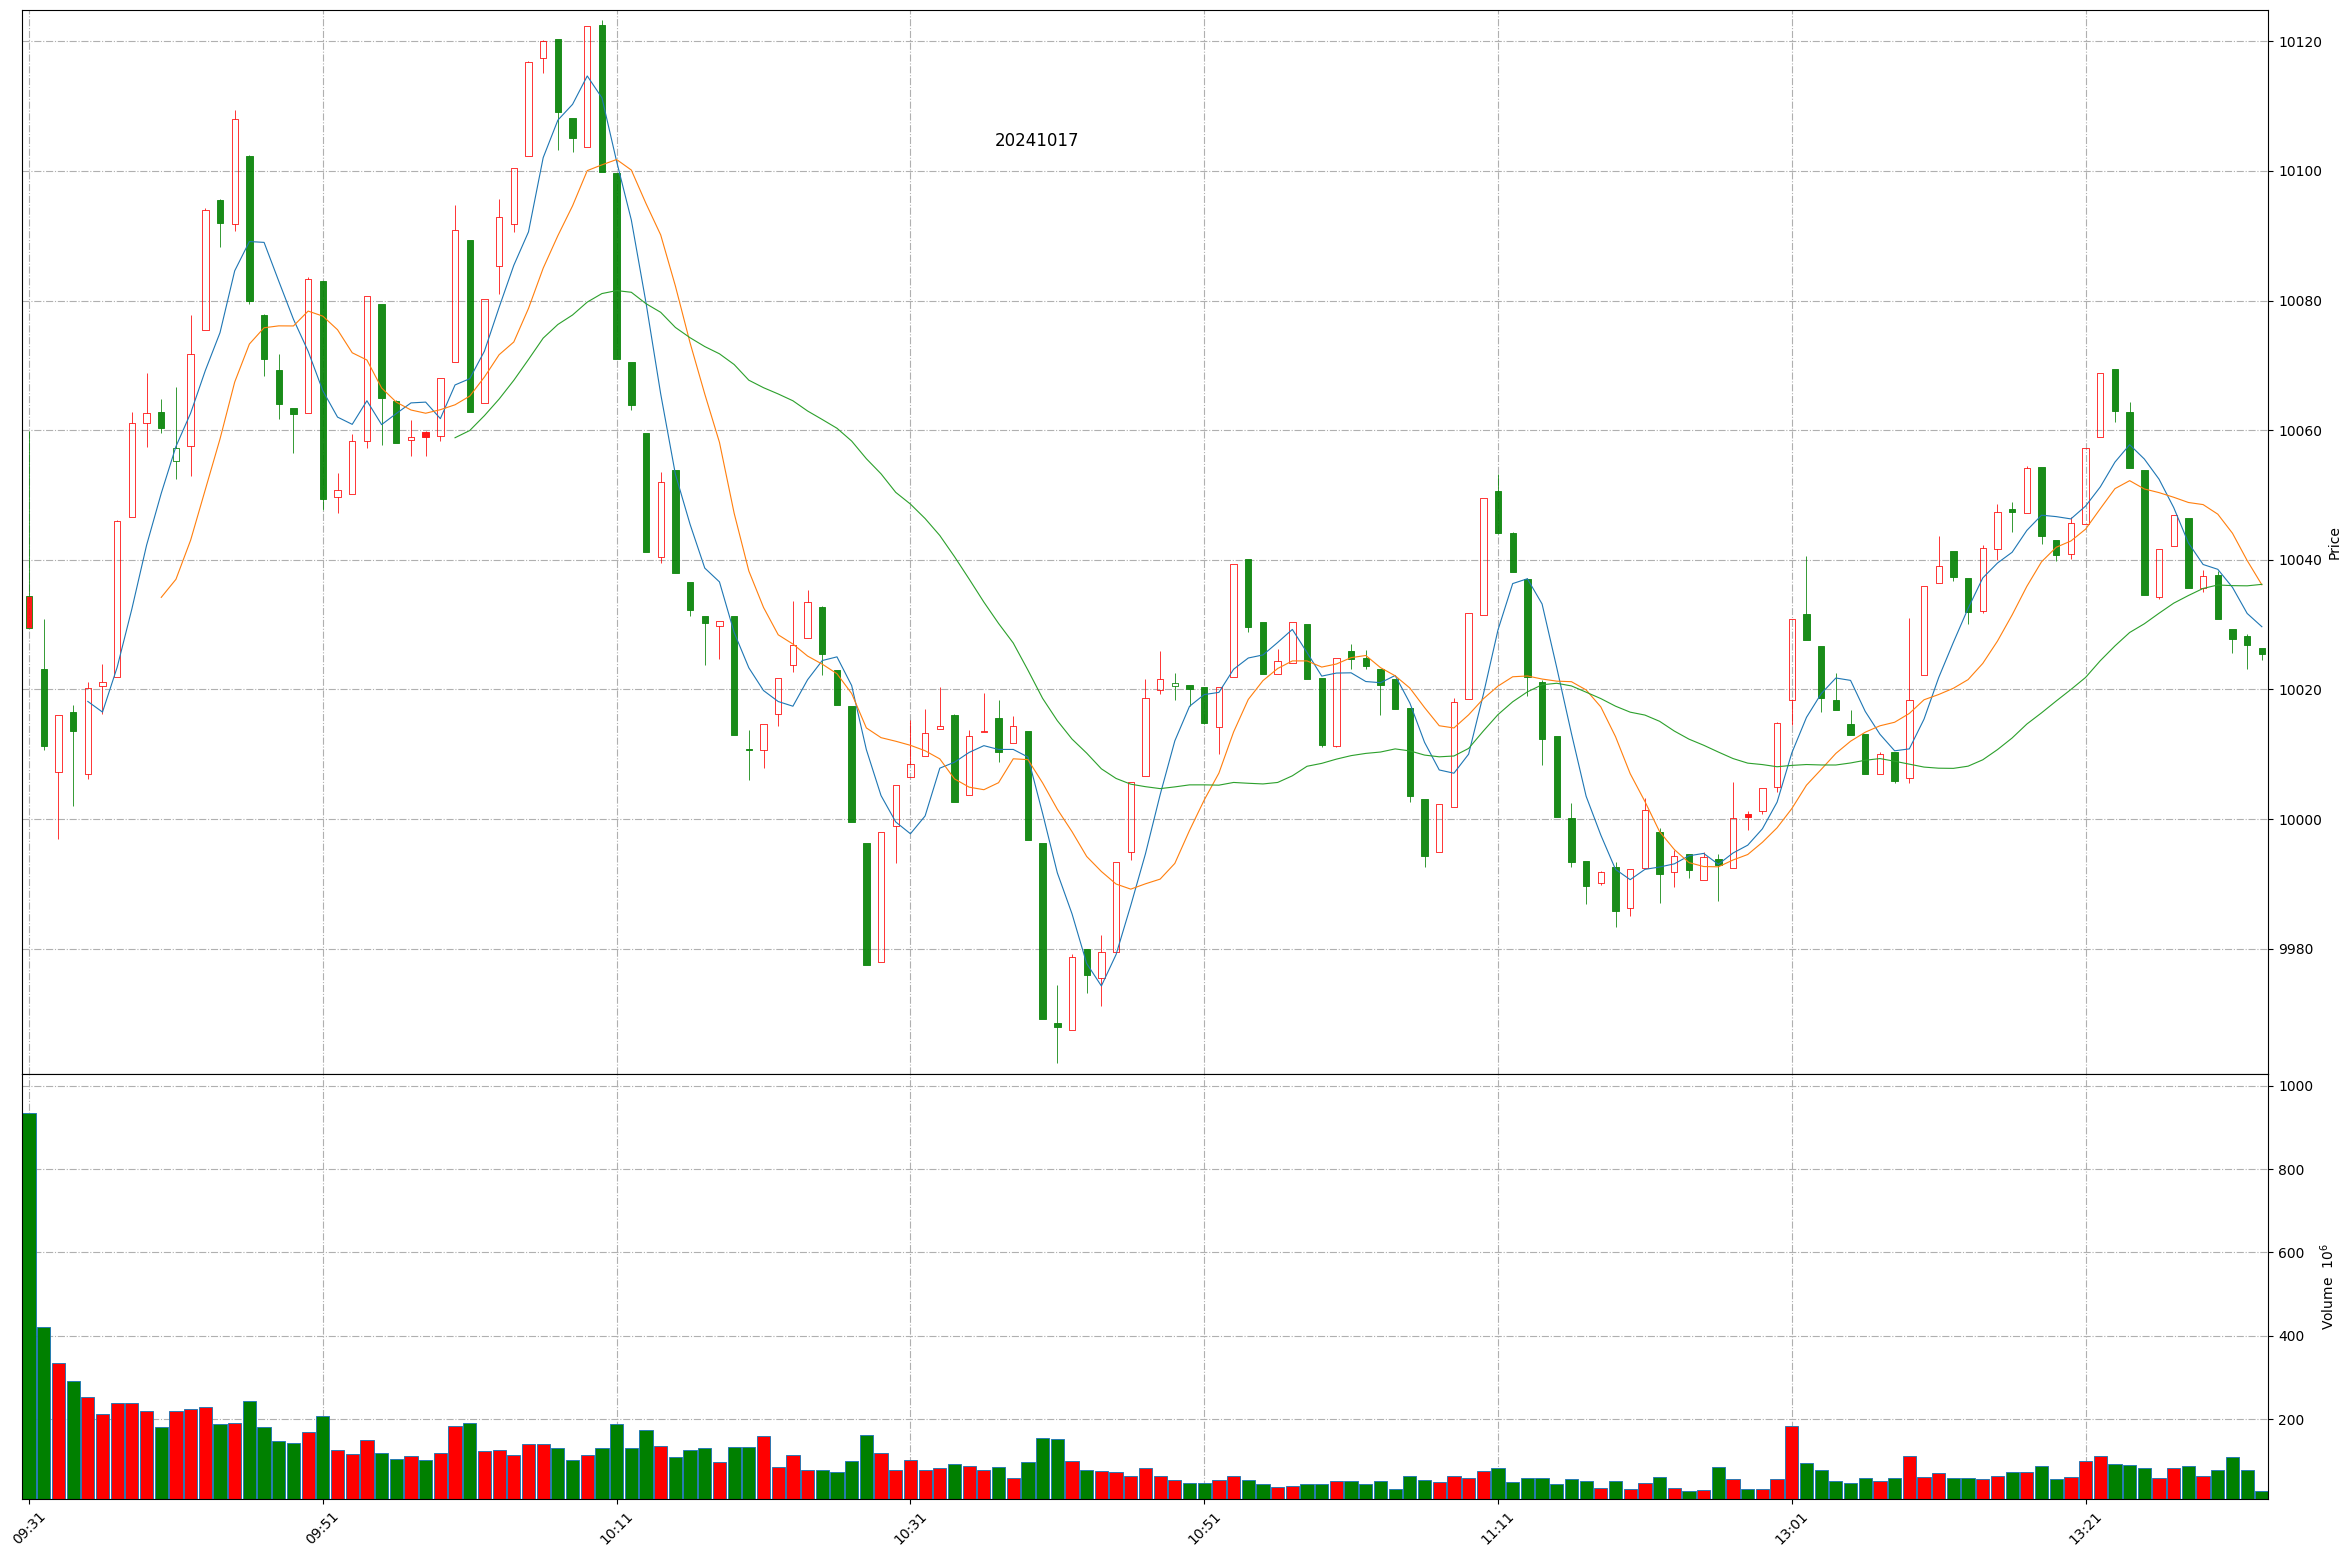
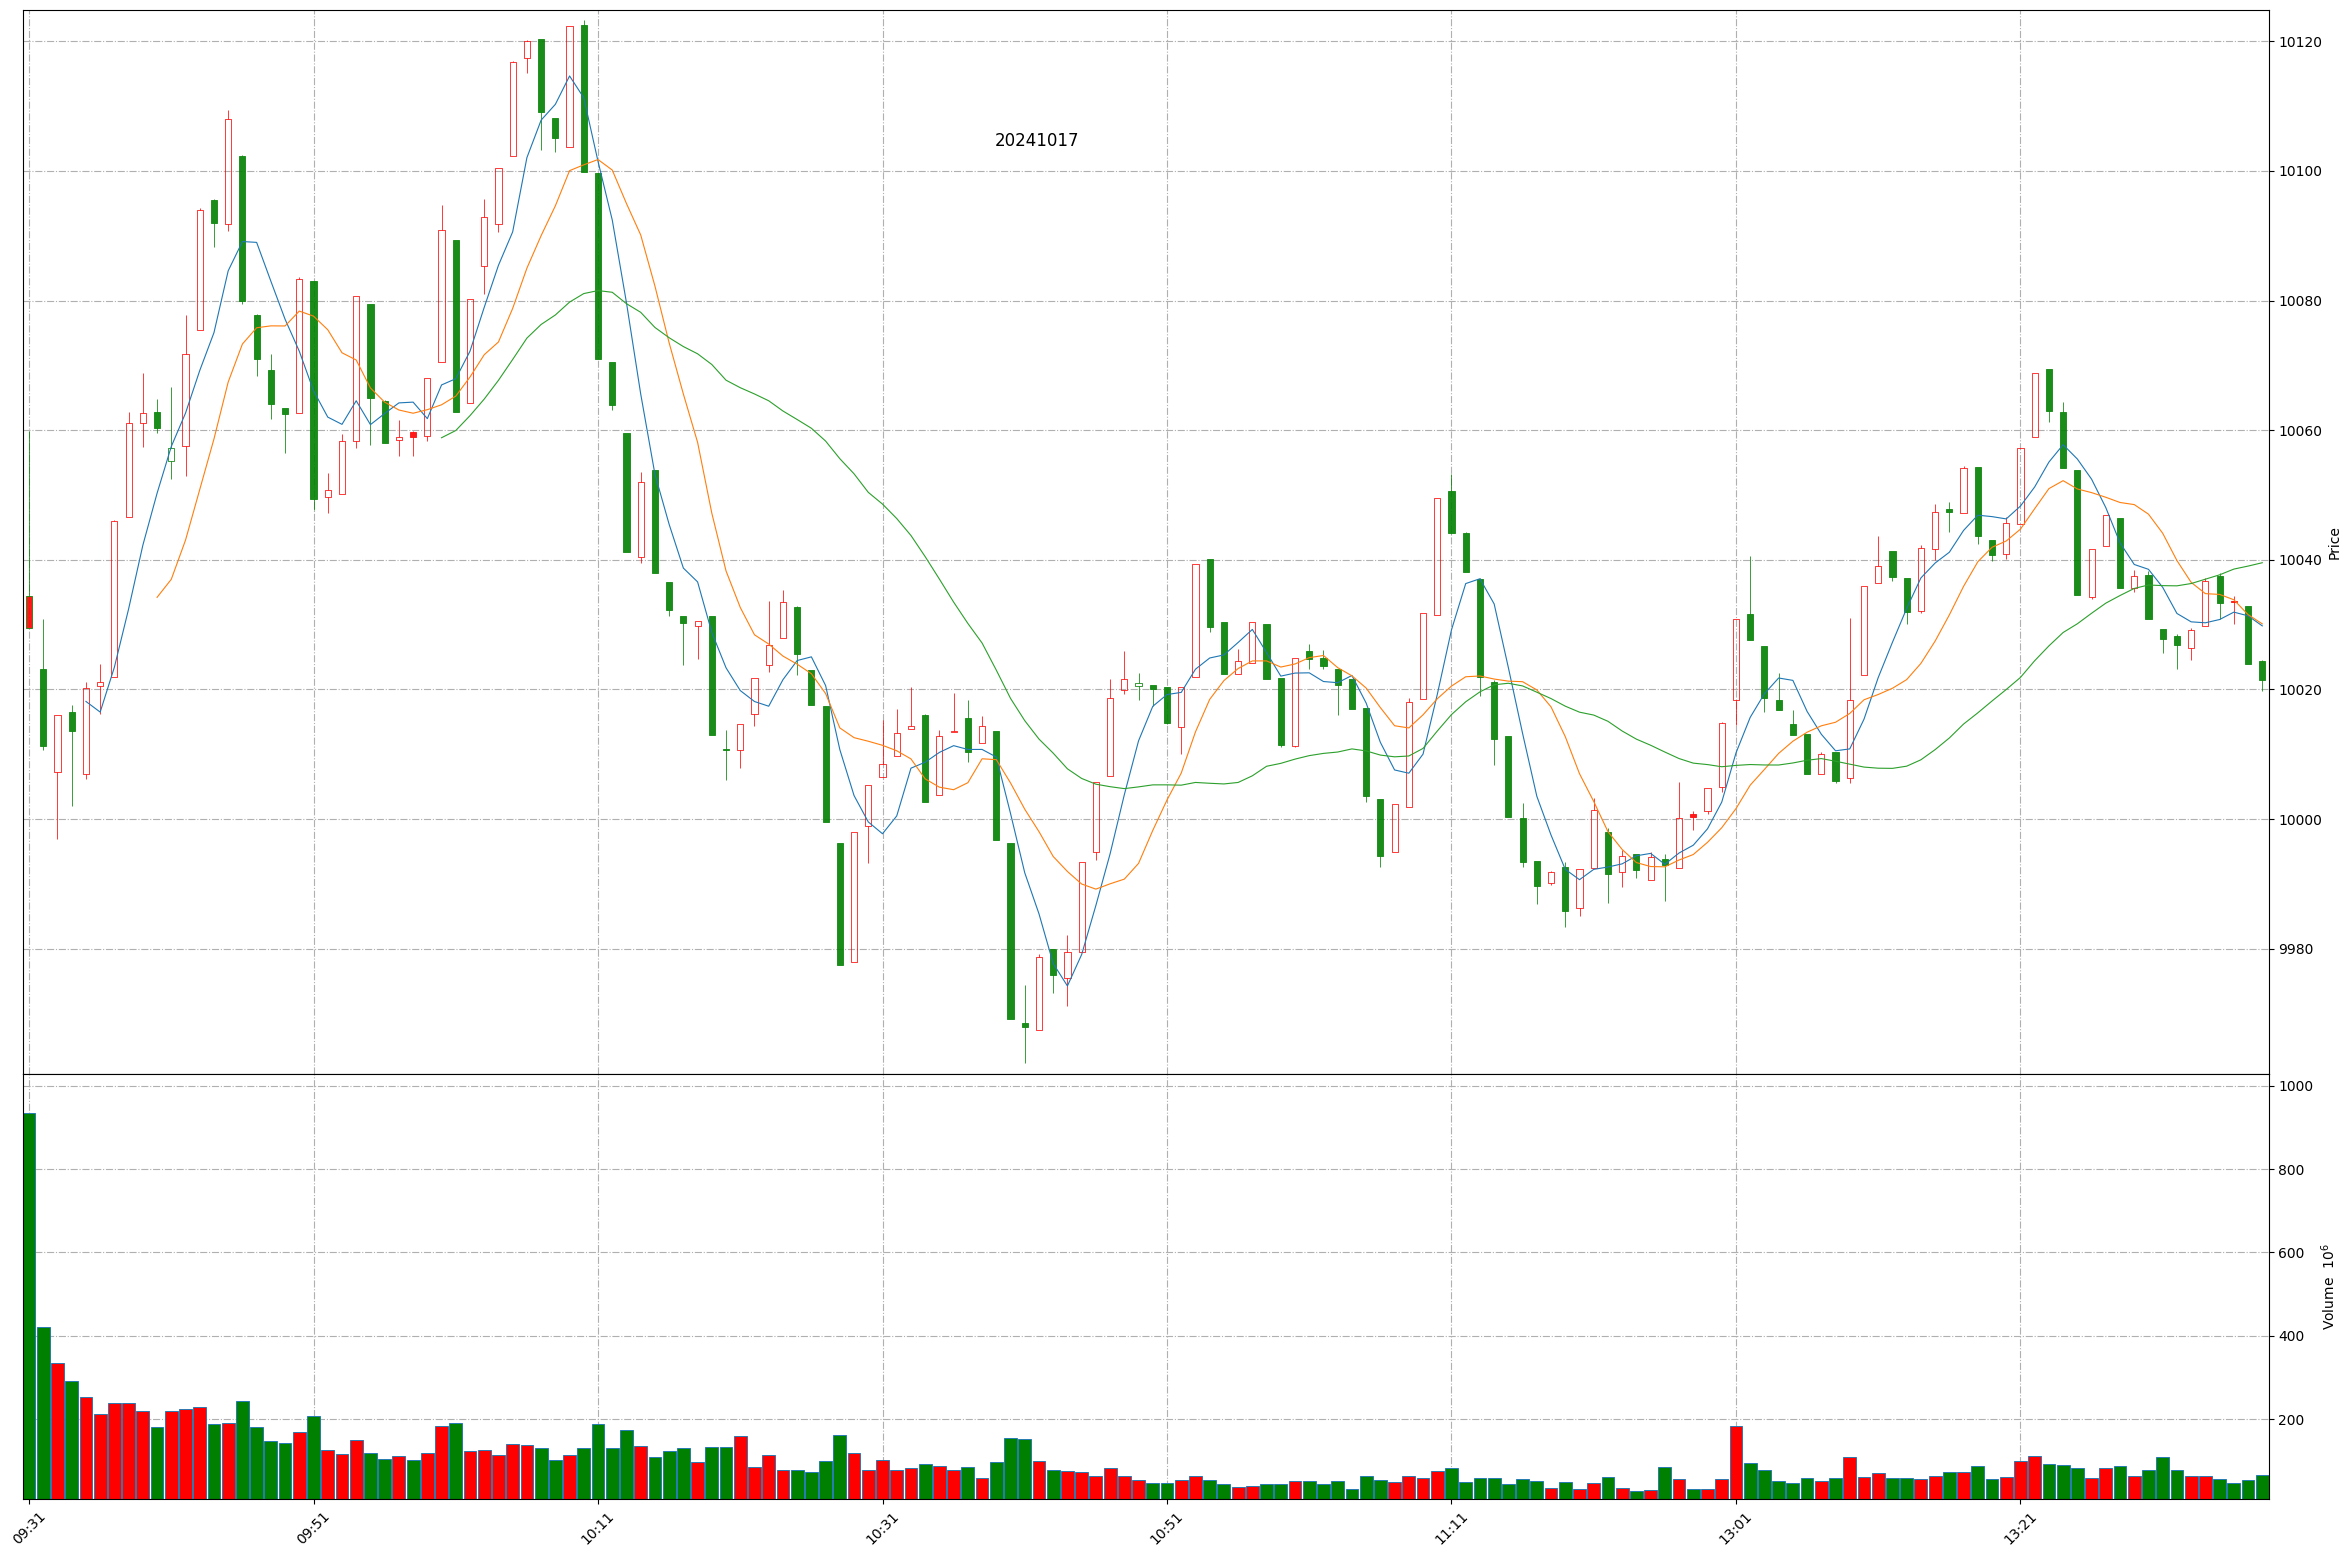
Github action update at 2024-10-17 13:38:12.

diff --git a/README.md b/README.md
@@ -1,11 +1,11 @@
 
 # Daily-A-share-market-quotes 每日 A 股指数（5min 更新）- 20241017
 
-### 上证指数 20241017 13:32
+### 上证指数 20241017 13:38
 ![](./fig/2024/10/20241017-sh000001.png)
 
-### 深证成指 20241017 13:32
+### 深证成指 20241017 13:38
 ![](./fig/2024/10/20241017-sz399001.png)
 
-### 北证50 20241017 13:32
+### 北证50 20241017 13:38
 ![](./fig/2024/10/20241017-bj899050.png)
